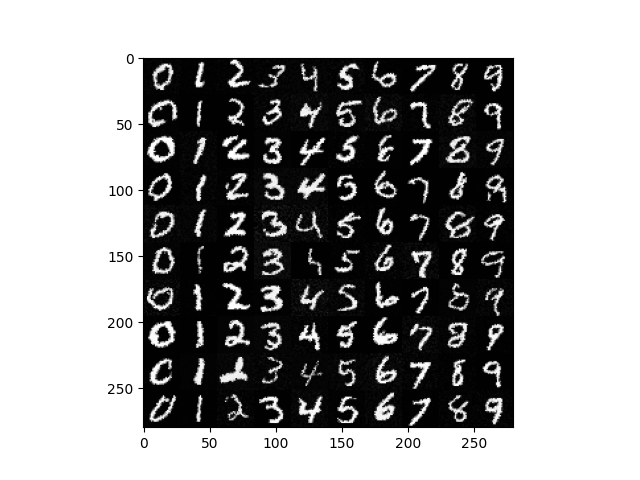
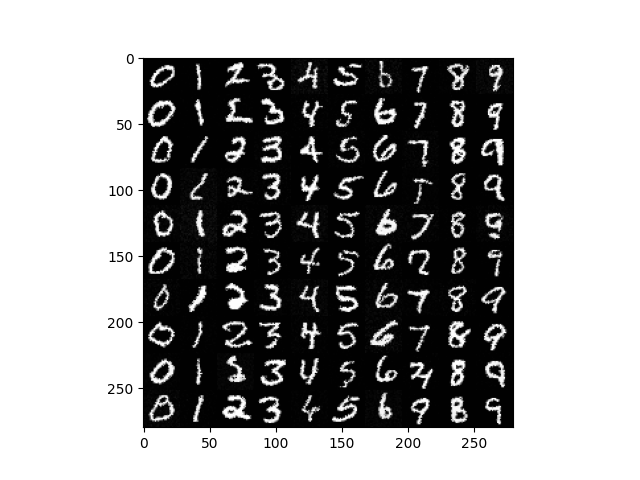
MNIST

Changed region(s): [[0.2188, 0.125, 0.8125, 0.9062]]

diff --git a/classifier.py b/classifier.py
@@ -7,9 +7,11 @@ from torchdyn.core import NeuralODE
 from torchvision.transforms import ToPILImage
 from torchvision.utils import make_grid
 from tqdm import tqdm
+import numpy as np
 
 from torchcfm.conditional_flow_matching import *
 from torchcfm.models.unet import UNetModel
+from torchvision import datasets, transforms
 
 # Load model
 USE_TORCH_DIFFEQ = True
@@ -26,52 +28,98 @@ model.load_state_dict(
 model.to(device)
 node = NeuralODE(model, solver="dopri5", sensitivity="adjoint", atol=1e-4, rtol=1e-4)
 
-def classifier(x, steps=2):
-    # Enumerate the classes
-    x = x.repeat(10, 1, 1, 1) # Shape: (10, 1, 32, 32)
-    classes = torch.arange(10, device=device)
-    time_steps = torch.linspace(1, 0, steps, device=device)
-    # Reverse flow
-    with torch.no_grad():
-        if USE_TORCH_DIFFEQ:
-            traj = torchdiffeq.odeint(
-                lambda t, x: -model.forward(t, x, classes),
-                x,
-                time_steps,
-                atol=1e-4,
-                rtol=1e-4,
-                method="dopri5",
-            )
+def exponential_interval(a, b, n_points, exp_base=5.0) -> torch.Tensor:
+    u = torch.linspace(0, 1, n_points)
+    e_scaled = (exp_base ** u - 1) / (exp_base - 1)  # 标准化到 [0, 1]
+    x = a + e_scaled * (b - a)
+    return x
+
+def integral(x_list, y_list, increase=True):
+    # Compute the integral using the trapezoidal rule
+    integral = 0.0
+    for i in range(len(x_list) - 1):
+        delta = (x_list[i + 1] - x_list[i]) * (y_list[i] + y_list[i + 1]) / 2
+        if increase:
+            integral += delta
         else:
-            traj = node.trajectory(
-                x,
-                time_steps,
-        )
-    # Compute the initial log probability
-    init = traj[-1].view(-1, 1, 32, 32)
-    log_prob = -torch.sum(init ** 2, dim=(1, 2)) / 2
-    
-    # Average the divergence
-    for i in range(steps):
-        t = time_steps[i]
-        xt = traj[i].view(-1, 1, 32, 32)
-        # Compute the Jacobian
-        jacobian = torch.autograd.functional.jacobian(
-            lambda x: model.forward(t, x, classes),
-            xt,
-            create_graph=True,
-            vectorize=True,
-        ) # Shape: (B, 1, 32, 32, 1, 32, 32)
-        jacobian = jacobian.view(-1, 1024, 1024) # Shape: (10, 1024, 1024)
+            integral -= delta
+    return integral
+
+def compute_divergence(xt, t, cls, sample=10) -> torch.Tensor:
+    vt = model.forward(t, xt, cls).view(-1, 1, 32, 32)
+    div_samples = []
+    # Approximate the Jacobian by Hutchinson’s Trace Estimator
+    for _ in range(sample):  # Sample 10 times
+        e = torch.randn_like(vt)
+        dot = torch.sum(vt * e)
+        grad = torch.autograd.grad(dot, xt, create_graph=False, retain_graph=True)[0]
+        div_samples.append(torch.sum(grad * e))
+    return torch.mean(torch.stack(div_samples))  # Take the average of the samples
+
+def classifier(x, steps=2, sample=10):
+    # Enumerate the classes
+    x = x.repeat(1, 1, 1, 1)  # Shape: (1, 1, 32, 32)
+    classes = torch.arange(10, device=device)
+    time_steps = exponential_interval(1, 0, steps, exp_base=1000.0).to(device)  # Shape: (steps,)
+    log_probs = []
+
+    # Reverse flow
+    for cls in classes:
+        cls = cls.unsqueeze(0)  # Shape: (1,)
+        with torch.no_grad():
+            if USE_TORCH_DIFFEQ:
+                traj = torchdiffeq.odeint(
+                    lambda t, x: model.forward(t, x, cls),
+                    x,
+                    time_steps,
+                    atol=1e-4,
+                    rtol=1e-4,
+                    method="dopri5",
+                )
+            else:
+                traj = node.trajectory(
+                    x,
+                    time_steps,
+                )
+        # Compute the initial log probability
+        init = traj[-1].view(-1, 1, 32, 32)
+        
+        log_prob = -torch.sum(init ** 2) / 2 - 0.5 * 32 * 32 * torch.log(torch.tensor(2 * np.pi, device=device))
+        log_prob = log_prob.item()
         # Compute the divergence
-        divergence = torch.stack([torch.trace(jacobian[idx]) for idx in range(jacobian.size(0))]) # Shape: (10,)
-        log_prob -= divergence / steps
-    print(log_prob)
+        div_list = []
+        for i in range(steps):
+            t = time_steps[i]
+            xt = traj[i].view(-1, 1, 32, 32)
+            xt.requires_grad_(True)
+            div = compute_divergence(xt, t, cls, sample=sample)
+            div_list.append(div)
+            
+        # Integrate the divergence
+        log_prob -= integral(time_steps.cpu().numpy(), torch.tensor(div_list).cpu().numpy(), increase=False)
+        log_probs.append(log_prob)
+        
+    return np.argmax(log_probs), log_probs
     
 if __name__ == "__main__":
-    # Load a sample image
-    x = torch.randn(1, 1, 32, 32, device=device)
-    classifier(x, steps=2)
+    
+    # Load MNIST dataset
+    transform = transforms.Compose([transforms.Pad(2),transforms.ToTensor(), transforms.Normalize((0.5,), (0.5,))])
+    mnist = datasets.MNIST(root="data", train=False, download=True, transform=transform)
+
+    # Select 100 sample image and label pairs
+    sample_indices = np.random.choice(len(mnist), 100, replace=False)
+    samples = [mnist[i] for i in sample_indices]
+    acc_num = 0
+    
+    with tqdm(samples, desc="Processing samples") as pbar:
+        for i, (img, label) in enumerate(pbar):
+            img = img.unsqueeze(0).to(device)
+            prediction, _ = classifier(img, steps=100, sample=10)
+            if prediction == label:
+                acc_num += 1
+            pbar.set_postfix({"Prediction": prediction, "Label": label, "Accuracy": acc_num / (i + 1)})
+            
         
         
         

diff --git a/train.py b/train.py
@@ -26,7 +26,7 @@ train_loader = torch.utils.data.DataLoader(
     trainset, batch_size=batch_size, shuffle=True, drop_last=True
 )
 
-sigma = 0.0
+sigma = 0.01
 model = UNetModel(
     dim=(1, 32, 32), num_channels=32, num_res_blocks=2, channel_mult=(2, 2, 2, 2), num_classes=10, class_cond=True
 ).to(device)
